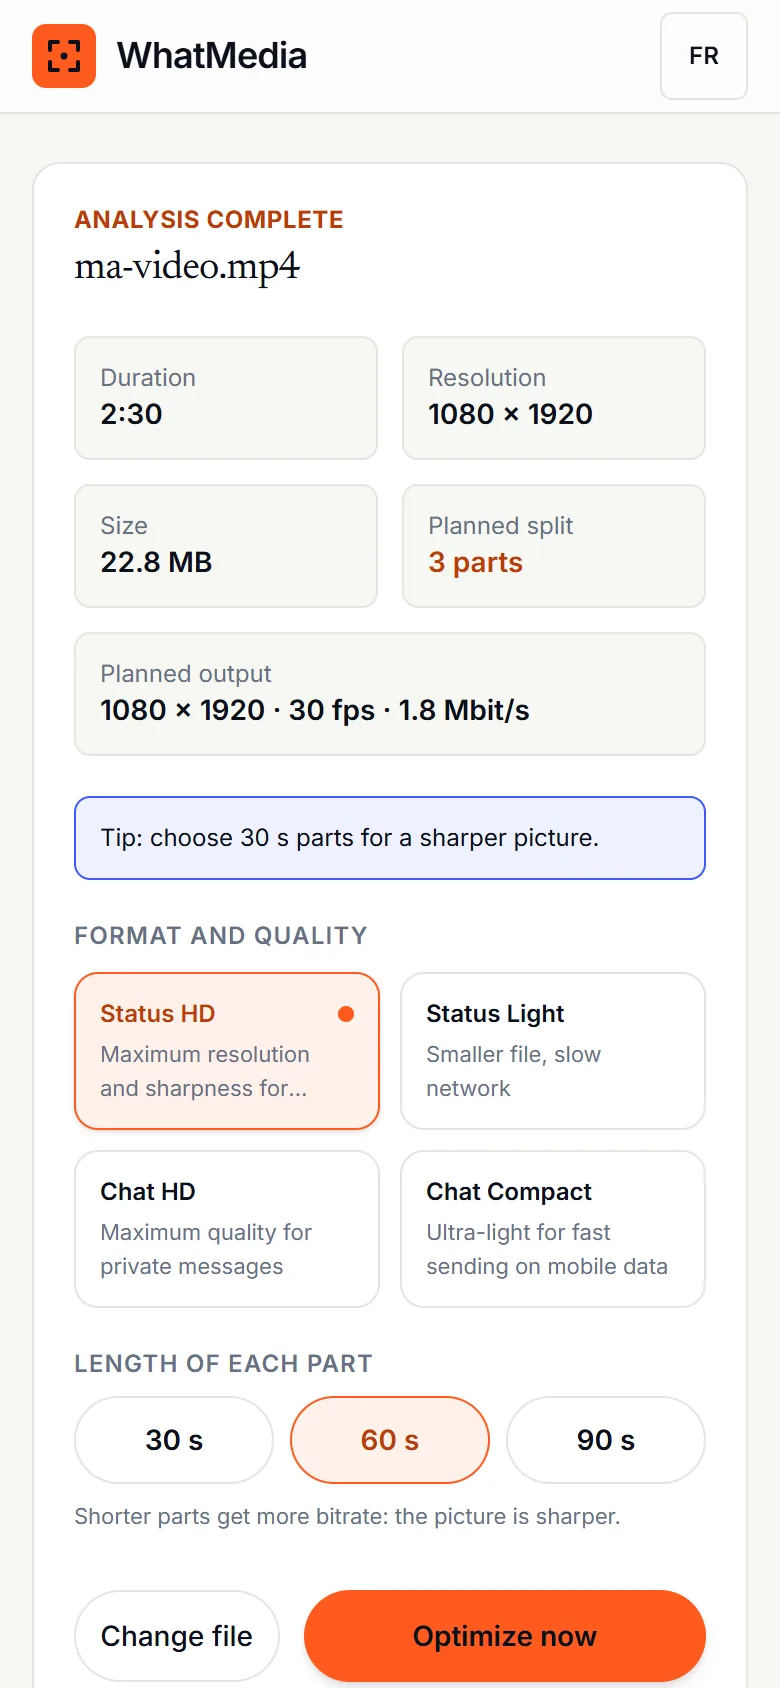
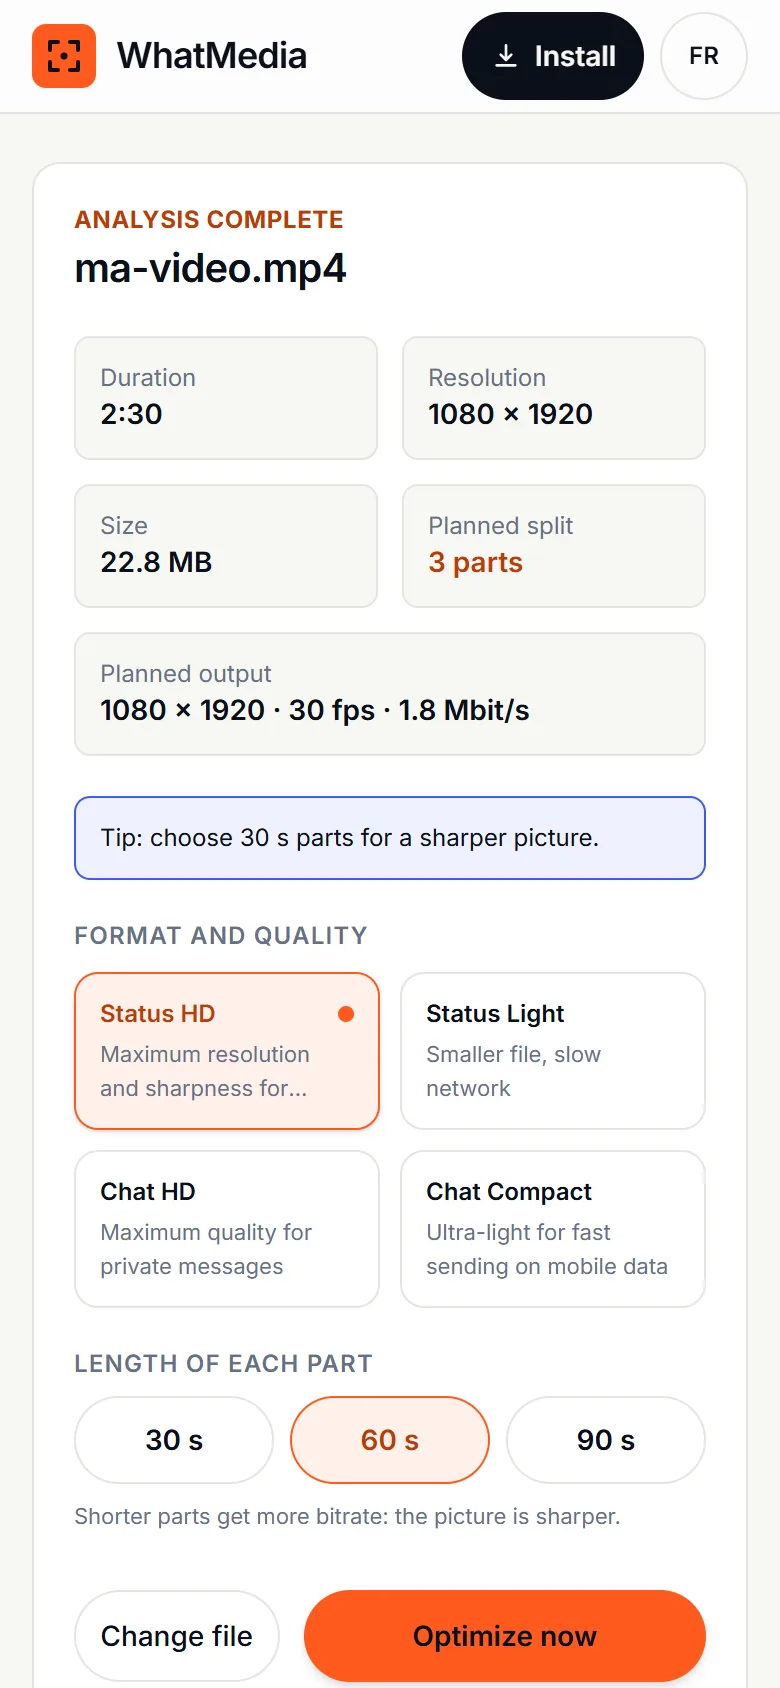
style: use Apple system fonts and drop italic headings
SF Pro through -apple-system on Apple devices, self-hosted Inter elsewhere,
semibold headings with tight tracking. Newsreader is removed, emoji pills
become check icons, screenshots and link preview are regenerated.

Changed region(s): [[0.5846, 0.0, 0.8308, 0.0616], [0.0923, 0.154, 0.4615, 0.1848]]

diff --git a/apps/web/src/styles/global.css b/apps/web/src/styles/global.css
@@ -2,22 +2,6 @@
 @import '@whatmedia/config/tokens.css';
 
 @font-face {
-  font-family: 'Newsreader';
-  font-style: normal;
-  font-weight: 200 800;
-  font-display: swap;
-  src: url('/fonts/newsreader.woff2') format('woff2');
-}
-
-@font-face {
-  font-family: 'Newsreader';
-  font-style: italic;
-  font-weight: 200 800;
-  font-display: swap;
-  src: url('/fonts/newsreader-italic.woff2') format('woff2');
-}
-
-@font-face {
   font-family: 'Inter';
   font-style: normal;
   font-weight: 100 900;
@@ -45,9 +29,10 @@
   --color-wm-border: var(--wm-border);
   --color-wm-border-subtle: var(--wm-border-subtle);
 
-  --font-heading: 'Newsreader', Georgia, 'Times New Roman', serif;
-  --font-display: 'Newsreader', Georgia, 'Times New Roman', serif;
-  --font-body: 'Inter', system-ui, -apple-system, 'Segoe UI', sans-serif;
+  /* Apple system fonts (SF Pro) on Apple devices, self-hosted Inter elsewhere */
+  --font-heading: -apple-system, BlinkMacSystemFont, 'SF Pro Display', 'Inter', 'Segoe UI', Roboto, 'Helvetica Neue', Arial, sans-serif;
+  --font-display: -apple-system, BlinkMacSystemFont, 'SF Pro Display', 'Inter', 'Segoe UI', Roboto, 'Helvetica Neue', Arial, sans-serif;
+  --font-body: -apple-system, BlinkMacSystemFont, 'SF Pro Text', 'Inter', 'Segoe UI', Roboto, 'Helvetica Neue', Arial, sans-serif;
   --font-mono: ui-monospace, 'SFMono-Regular', Menlo, Consolas, monospace;
 
   --radius-wm-card: 20px;
@@ -61,8 +46,7 @@ html {
 }
 
 body {
-  font-family: 'Inter', system-ui, -apple-system, 'Segoe UI', sans-serif;
-  font-feature-settings: 'cv11', 'ss01';
+  font-family: -apple-system, BlinkMacSystemFont, 'SF Pro Text', 'Inter', 'Segoe UI', Roboto, 'Helvetica Neue', Arial, sans-serif;
   background-color: var(--wm-paper);
   color: var(--wm-ink);
   line-height: 1.5;
@@ -72,10 +56,9 @@ body {
 
 h1,
 h2 {
-  font-family: 'Newsreader', Georgia, serif;
-  font-weight: 350;
-  letter-spacing: -0.025em;
-  font-optical-sizing: auto;
+  font-family: -apple-system, BlinkMacSystemFont, 'SF Pro Display', 'Inter', 'Segoe UI', Roboto, 'Helvetica Neue', Arial, sans-serif;
+  font-weight: 600;
+  letter-spacing: -0.028em;
   text-wrap: balance;
 }
 
@@ -83,8 +66,8 @@ h3,
 h4,
 h5,
 h6 {
-  font-family: 'Inter', system-ui, sans-serif;
-  letter-spacing: -0.01em;
+  font-family: -apple-system, BlinkMacSystemFont, 'SF Pro Display', 'Inter', 'Segoe UI', Roboto, 'Helvetica Neue', Arial, sans-serif;
+  letter-spacing: -0.012em;
   text-wrap: balance;
 }
 
@@ -145,8 +128,8 @@ kbd {
 /* Long-form legal and documentation pages */
 .prose-wm h2 {
   margin-top: 2.5rem;
-  font-size: 1.75rem;
-  font-weight: 400;
+  font-size: 1.6rem;
+  font-weight: 600;
   color: var(--wm-ink);
 }
 .prose-wm h3 {

diff --git a/packages/config/src/tokens.css b/packages/config/src/tokens.css
@@ -37,9 +37,9 @@
   --wm-radius-input: 10px;
 
   /* Typography scale */
-  --wm-font-heading: 'Space Grotesk', system-ui, sans-serif;
-  --wm-font-body: 'Inter', system-ui, sans-serif;
-  --wm-font-mono: 'JetBrains Mono', ui-monospace, monospace;
+  --wm-font-heading: -apple-system, BlinkMacSystemFont, 'SF Pro Display', 'Inter', 'Segoe UI', Roboto, 'Helvetica Neue', Arial, sans-serif;
+  --wm-font-body: -apple-system, BlinkMacSystemFont, 'SF Pro Text', 'Inter', 'Segoe UI', Roboto, 'Helvetica Neue', Arial, sans-serif;
+  --wm-font-mono: ui-monospace, 'SF Mono', Menlo, Consolas, monospace;
 
   /* Spacing */
   --wm-space-xs: 0.25rem;

diff --git a/docs/05-UI-UX-LANDING.md b/docs/05-UI-UX-LANDING.md
@@ -16,8 +16,7 @@
 | `--wm-signal-text` | `#B93D0C` (clair) / `#FF7A45` (sombre) | Texte orange, contraste AA |
 | `--wm-on-signal` | `#0B0F1A` | Texte posé sur l’orange |
 | Rayon | 20 à 40 px (cartes), 999 px (boutons pilule) | |
-| Typo titres | **Newsreader** variable, graisse 330 à 400, approche serrée (auto-hébergée) | |
-| Typo texte | **Inter** (auto-hébergée) | |
+| Typo | Police système Apple (**SF Pro** via `-apple-system`) sur iPhone, iPad et Mac ; **Inter** auto-hébergée ailleurs. Titres en semibold, approche serrée (≈ −0,028 em), jamais d’italique | |
 
 Mode sombre complet (`prefers-color-scheme`), contraste AA vérifié. Pas de dégradé de couleur, pas de tiret cadratin dans les textes.
 
@@ -64,7 +63,7 @@ Carte média : vignette, durée, résolution, taille, badges (`HDR`, `4K`, `60 i
 
 ## 3. Landing page (`/`)
 
-> Mise à jour du 10/11/2026 : la landing est construite mobile d’abord, autour de vraies captures de l’app dans des cadres de téléphone (WebP, `apps/web/public/shots`) : titre serif, bandeau sombre de trois écrans (analyse, traitement, partage), quatre cartes de fonctionnalités, mise en avant de la sélection multiple, exemple chiffré calculé par `plan()`, section sombre vie privée, FAQ, appel final. Les captures se régénèrent avec Playwright sur l’app réelle. Le texte détaillé ci-dessous est l’intention d’origine.
+> Mise à jour du 10/11/2026 : la landing est construite mobile d’abord, autour de vraies captures de l’app dans des cadres de téléphone (WebP, `apps/web/public/shots`) : grand titre en police système Apple, bandeau sombre de trois écrans (analyse, traitement, partage), quatre cartes de fonctionnalités, mise en avant de la sélection multiple, exemple chiffré calculé par `plan()`, section sombre vie privée, FAQ, appel final. Les captures se régénèrent avec Playwright sur l’app réelle. Le texte détaillé ci-dessous est l’intention d’origine.
 
 Objectif : faire comprendre en 5 secondes, puis convertir vers `/app`. Une seule page, rapide, sans dépendance JS lourde.
 

diff --git a/CHANGELOG.md b/CHANGELOG.md
@@ -5,8 +5,9 @@ Format : [Keep a Changelog](https://keepachangelog.com/fr/1.1.0/) · Versions : 
 ## [Unreleased]
 
 ### Design
-- Nouveau design du site, mobile d’abord : titres serif (Newsreader auto-hébergée), vraies captures de l’app en WebP dans des cadres de téléphone, carrousel horizontal sur mobile, sections sombres, boutons pilule, apparitions au défilement en CSS seul (désactivées si l’utilisateur limite les animations).
+- Nouveau design du site, mobile d’abord : typographie système Apple (SF Pro sur iPhone, iPad et Mac, Inter ailleurs), sans italique, vraies captures de l’app en WebP dans des cadres de téléphone, carrousel horizontal sur mobile, sections sombres, boutons pilule, apparitions au défilement en CSS seul (désactivées si l’utilisateur limite les animations).
 - Application harmonisée avec le site (logo, polices).
+- **Installation** : bouton « Installer » toujours visible dans l’en-tête de l’app. Il ouvre la fenêtre native du navigateur (Chrome, Edge, Android) ou explique la marche à suivre (Safari iPhone, autres navigateurs, navigateurs intégrés de WhatsApp ou Instagram avec copie du lien). Le signal d’installation du navigateur est désormais capté dès le chargement (il était souvent perdu). Captures ajoutées au manifeste.
 
 ### Fiabilité
 - Vidéos très détaillées (eau, confettis, grain) : l’encodeur du navigateur peut ignorer le débit demandé. Le moteur réessaie avec un débit plus bas, puis une image plus petite, et en dernier recours redécoupe la partie en parties plus courtes, toujours sous 16 Mo. La barre de progression ne recule plus et un message explique l’ajustement.
